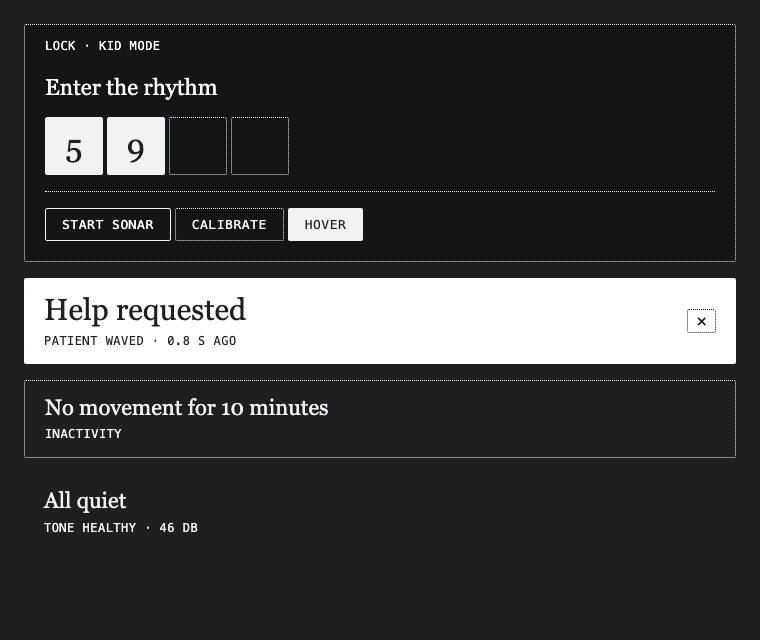
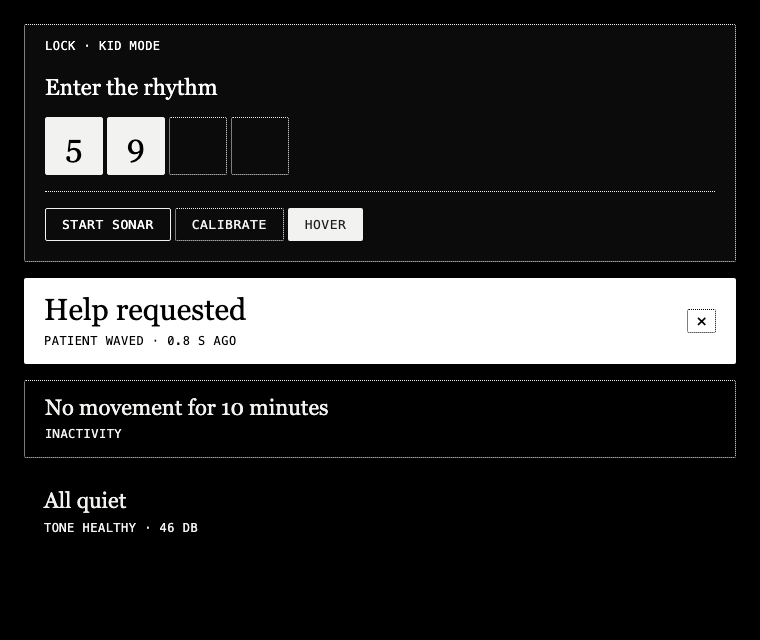
ui: pure black palette per updated STYLE.md (#19)

diff --git a/ui/src/styles.css b/ui/src/styles.css
@@ -1,6 +1,6 @@
 :root {
-  --bg: #1e1f21;
-  --bg-deep: #141516;
+  --bg: #000000;
+  --bg-deep: #0b0b0c;
   --ink: #f2f2f0;
   --ink-strong: #ffffff;
   --rule: 1px dotted var(--ink);
